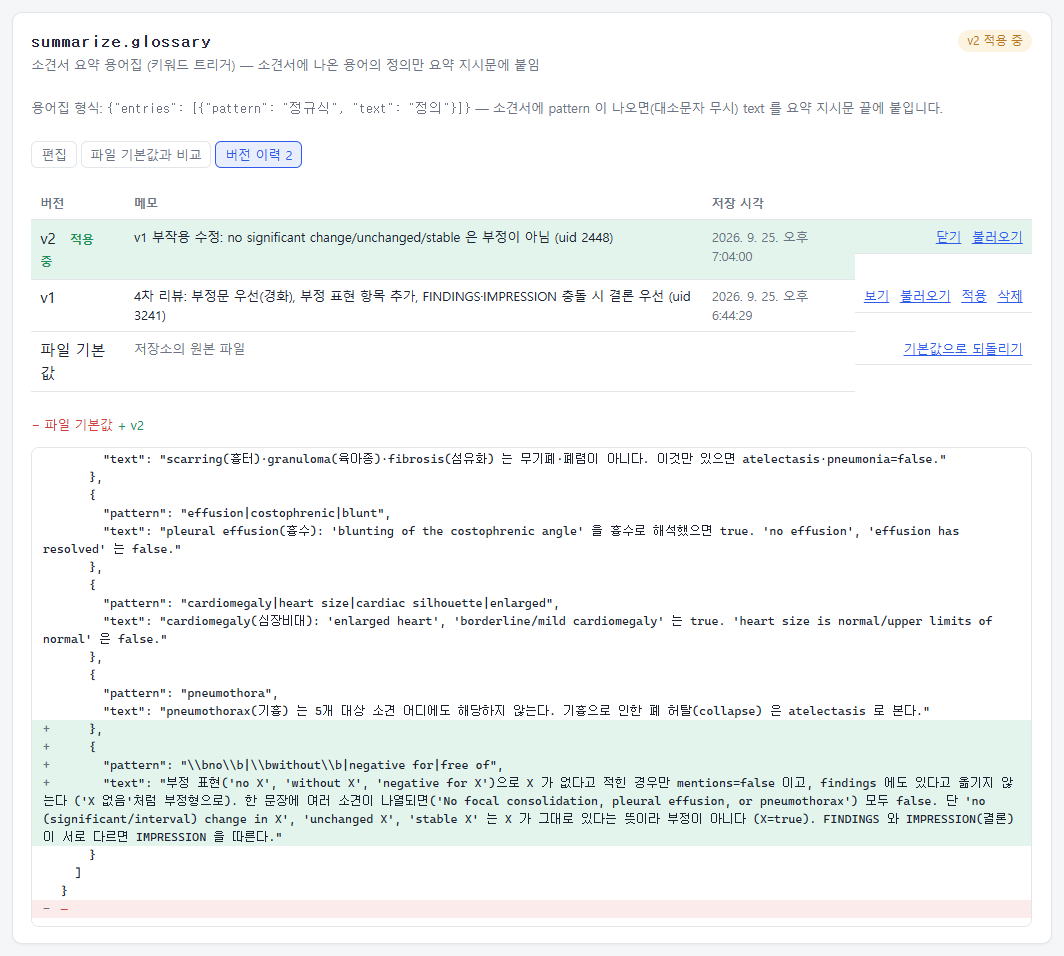
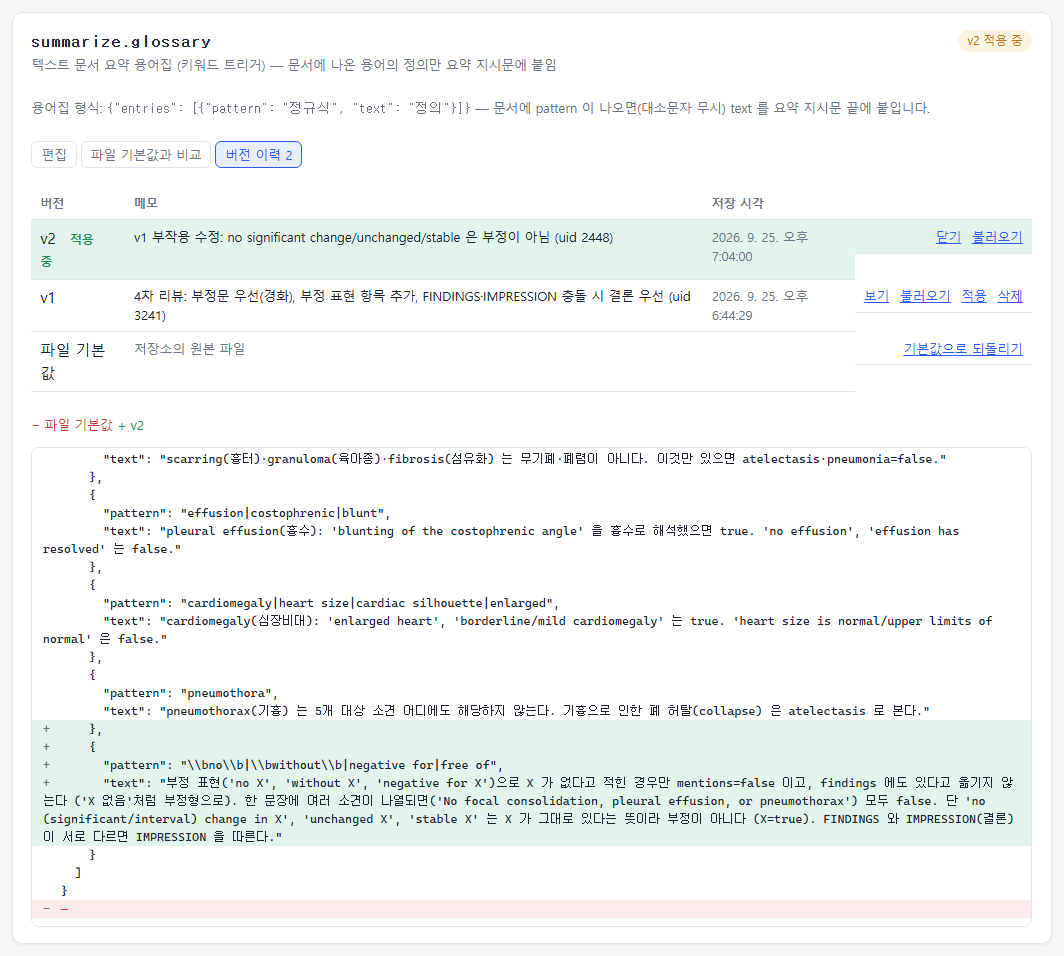
이미지 화면 남은 문구 정리 (검증 메시지 · 이미지 실험 안내), 새 문구로 스크린샷 다시 찍기

Changed region(s): [[0.031, 0.0607, 0.8684, 0.1213]]

diff --git a/src/Web/src/features/image/pages/ImageExperimentPage.tsx b/src/Web/src/features/image/pages/ImageExperimentPage.tsx
@@ -17,7 +17,7 @@ const POLL_MS = 3000
 const pct = (v: number | null) => (v === null ? '—' : `${(v * 100).toFixed(1)}%`)
 const sec = (v: number | null) => (v === null ? '—' : `${v.toFixed(1)}초`)
 
-/** 이미지 실험 1건: 조합별 이진 판단 정확도(CNN·VLM)·일치율·시간·순위 ➔ [기본으로 적용], 영상별 결과 */
+/** 이미지 실험 1건: 조합별 이진 판단 정확도(CNN·VLM)·일치율·시간·순위 ➔ [기본으로 적용], 이미지별 결과 */
 export function ImageExperimentPage() {
   const { experimentId = '' } = useParams()
   return <Detail key={experimentId} id={experimentId} />
@@ -85,7 +85,7 @@ function Detail({ id }: { id: string }) {
         <h2>{detail.name}</h2>
         {running ? <span className="badge badge-run">진행 중</span> : <span className="badge badge-ok">완료</span>}
         <span className="muted small">
-          {new Date(detail.createdAt).toLocaleString('ko-KR')} · 영상 {detail.docCount}장 × 조합 {detail.combos.length}개
+          {new Date(detail.createdAt).toLocaleString('ko-KR')} · 이미지 {detail.docCount}장 × 조합 {detail.combos.length}개
         </span>
       </div>
       <Disclaimer />
@@ -113,7 +113,7 @@ function Detail({ id }: { id: string }) {
         <h3>조합별 결과</h3>
         {!detail.labeled && (
           <p className="text-warn small">
-            정답을 찾을 수 있는 영상이 없어 정확도·순위를 계산하지 않았습니다 (Kaggle·IU 파일 이름을 그대로 올리세요).
+            정답을 찾을 수 있는 이미지가 없어 정확도·순위를 계산하지 않았습니다 (Kaggle·IU 파일 이름을 그대로 올리세요).
           </p>
         )}
         <div className="table-scroll">
@@ -160,7 +160,7 @@ function Detail({ id }: { id: string }) {
                     </td>
                     <td
                       className={`num tabular small ${c.vlmJudged != null && c.vlmJudged < 10 ? 'muted' : ''}`}
-                      title={`판독에 성공하고 정답이 있는 영상 ${c.vlmJudged ?? '?'}장 기준`}
+                      title={`판독에 성공하고 정답이 있는 이미지 ${c.vlmJudged ?? '?'}장 기준`}
                     >
                       {pct(c.vlmSensitivity)} / {pct(c.vlmSpecificity)}
                       {c.vlmJudged != null && c.vlmJudged < c.labeledDocs && <span className="small"> (n={c.vlmJudged})</span>}
@@ -192,21 +192,21 @@ function Detail({ id }: { id: string }) {
             </tbody>
           </table>
         </div>
-        <RankMargin combos={detail.combos} sample={`영상 ${detail.docCount}장`} />
+        <RankMargin combos={detail.combos} sample={`이미지 ${detail.docCount}장`} unit="이미지" />
         <p className="muted small">
-          점수: {detail.scoreFormula}. 모든 영상이 끝난 조합만 순위를 매깁니다. 시간 통계는 조합별 첫 작업(모델 적재 포함)을 뺀 값입니다.
+          점수: {detail.scoreFormula}. 모든 이미지가 끝난 조합만 순위를 매깁니다. 시간 통계는 조합별 첫 작업(모델 적재 포함)을 뺀 값입니다.
         </p>
         <PromptMixWarning mixes={detail.promptMixes} />
       </section>
 
       <section className="card">
-        <h3>영상별 결과</h3>
+        <h3>이미지별 결과</h3>
         <p className="muted small">✓ = 정답과 같음, ✗ = 틀림. 칸을 누르면 그 작업의 판독 화면으로 이동합니다.</p>
         <div className="table-scroll">
           <table className="jobs doc-matrix">
             <thead>
               <tr>
-                <th>영상</th>
+                <th>이미지</th>
                 <th>정답</th>
                 {detail.combos.map((c) => (
                   <th key={c.index}>조합 {c.index + 1}</th>

diff --git a/src/Web/src/shared/components/ExperimentNotes.tsx b/src/Web/src/shared/components/ExperimentNotes.tsx
@@ -70,9 +70,12 @@ export function ExperimentDescription({
 export function RankMargin({
   combos,
   sample,
+  unit = '문서',
 }: {
   combos: { rank?: number | null; score?: number | null }[]
   sample: string
+  /** 실험 대상 이름 (문서 · 이미지) */
+  unit?: string
 }) {
   const ranked = combos
     .filter((c) => c.rank != null && c.score != null)
@@ -83,7 +86,7 @@ export function RankMargin({
   return (
     <p className={`rank-margin small ${close ? 'is-close' : ''}`}>
       1위와 2위 점수 차 <strong>{gap.toFixed(3)}</strong> · {sample}
-      {close && ' — 차이가 작아 문서를 바꾸면 순위가 뒤집힐 수 있습니다. 점수보다 아래 지표와 문서별 결과를 함께 보세요.'}
+      {close && ` — 차이가 작아 ${unit}를 바꾸면 순위가 뒤집힐 수 있습니다. 점수보다 아래 지표와 ${unit}별 결과를 함께 보세요.`}
     </p>
   )
 }

diff --git a/src/Api/Modules/Multimodal/MultimodalJobHandler.cs b/src/Api/Modules/Multimodal/MultimodalJobHandler.cs
@@ -62,14 +62,14 @@ public sealed class MultimodalJobHandler(
         var (rows, reportIssues) = MultimodalPipeline.Compare(image, summary.Result);
         var disagree = rows.Count(r => r.Agree == false);
         await reporter.SetStatusAsync(job, JobStatus.Validating,
-            $"일치 비교: 소견 {rows.Count(r => r.Agree is not null)}개 중 {disagree}개 불일치", ct);
+            $"일치 비교: 항목 {rows.Count(r => r.Agree is not null)}개 중 {disagree}개 불일치", ct);
 
         // 5) 종합 보고서 (주어진 정보만으로, 불일치는 명시)
         await reporter.SetStatusAsync(job, JobStatus.LlmRunning, $"종합 보고서 작성 중 ({model})", ct);
         var final = await pipeline.SynthesizeAsync(model, image, summary.Result, rows, ct);
 
         // 6) 저장
-        var issues = image.Issues.Select(i => new MultimodalIssue(i.Rule, i.Severity, $"[영상] {i.Message}"))
+        var issues = image.Issues.Select(i => new MultimodalIssue(i.Rule, i.Severity, $"[이미지] {i.Message}"))
             .Concat(reportIssues).ToList();
         if (summary.ParseError is { } se)
         {

diff --git a/src/Api/Modules/Image/Pipeline/ImagePipeline.cs b/src/Api/Modules/Image/Pipeline/ImagePipeline.cs
@@ -113,12 +113,12 @@ public sealed class ImagePipeline(LlmClient llm, ImagePrompts prompts)
         if (vlmNormal && positives.Count > 0)
         {
             issues.Add(new("normal_vs_findings", IssueSeverity.Warning,
-                $"VLM 은 정상으로 판독했지만 CNN 양성 소견이 있음: {string.Join(", ", positives.Select(Describe))}"));
+                $"VLM 은 정상으로 판독했지만 CNN 양성 항목이 있음: {string.Join(", ", positives.Select(Describe))}"));
         }
         else if (!vlmNormal && positives.Count == 0 && cnnPneumonia is { Positive: false })
         {
             issues.Add(new("abnormal_without_findings", IssueSeverity.Warning,
-                "VLM 은 이상 소견을 적었지만 CNN 은 양성 소견이 없음"));
+                "VLM 은 이상이 있다고 적었지만 CNN 은 양성 항목이 없음"));
         }
         return issues;
     }

diff --git a/src/Api/Modules/Image/Experiments/ImageExperimentEndpoints.cs b/src/Api/Modules/Image/Experiments/ImageExperimentEndpoints.cs
@@ -50,7 +50,7 @@ public static class ImageExperimentEndpoints
             }
             if (files.Count is 0 or > MaxFiles)
             {
-                return Results.Problem($"영상은 1~{MaxFiles}장이어야 합니다", statusCode: StatusCodes.Status400BadRequest);
+                return Results.Problem($"이미지는 1~{MaxFiles}장이어야 합니다", statusCode: StatusCodes.Status400BadRequest);
             }
             if (comboList is null || comboList.Count is 0 or > MaxCombos)
             {
